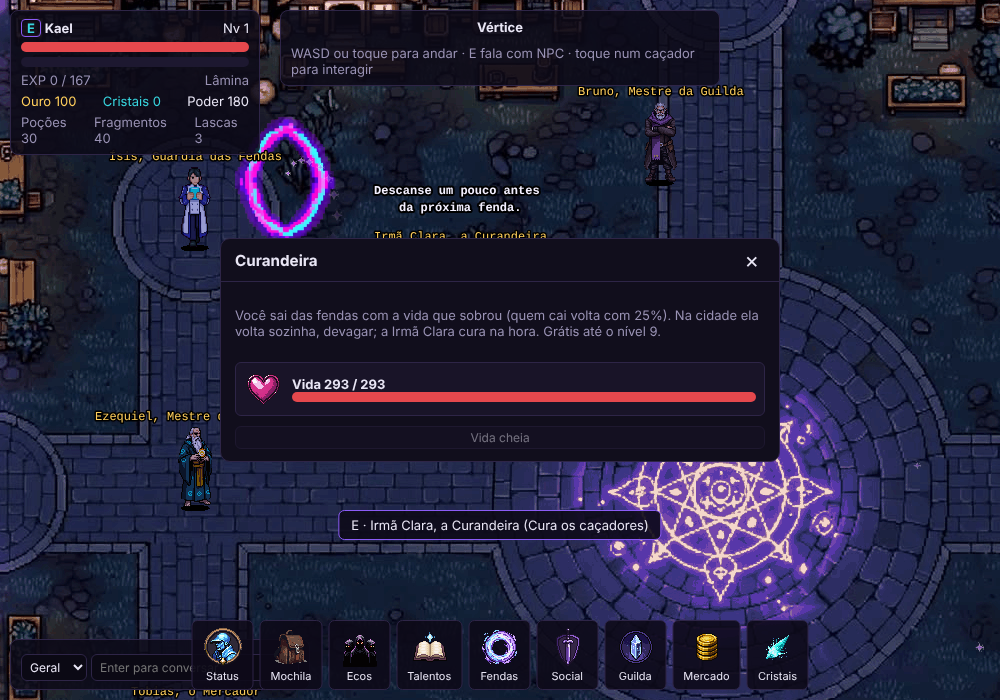
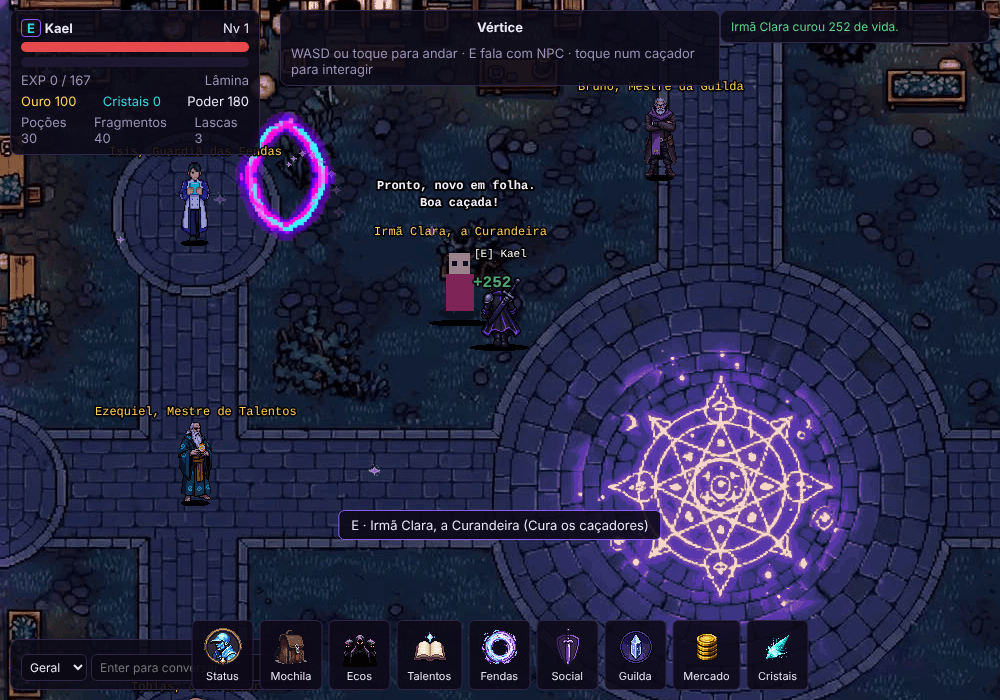
NPCs práticos: falar já faz o serviço
- Curandeira cura na hora ao falar, de graça (sem painel); avisa no balão se a vida já está cheia
- Tocar num NPC leva o caçador até ele e já fala (abre a loja, os portais, os talentos...)

Claude-Session: https://claude.ai/code/session_01R9bEA8madkQfyix1h3Gv4o

diff --git a/client/src/ui.ts b/client/src/ui.ts
@@ -3,7 +3,7 @@ import {
   ARENA, ATTRS, ATTR_HELP, ATTR_NAMES, AUTO_EXTRACT_LEVEL, BAG_EXPANSIONS, CLASSES, CLASS_IDS, CRYSTAL_PACKS, ECHO_FUSE_COUNT, ECHO_LIMIT, ECHO_TIERS,
   ENCHANT_CHANCE, GUILD, MARKET, MAX_ENCHANT, MAX_LEVEL, MONSTERS, PARTY_MAX, PREMIUM, PROMOTIONS, RARITY_INFO, RIFTS, SHOP, SKILLS, SLOTS,
   SLOT_NAMES, TALENTS, TALENT_MAX, TALENT_PATHS, TALENT_TIER_POINTS, bagSize, echoFuseCost, echoStats, enchantCost, expToNext, itemName,
-  itemStat, pathPoints, rankOf, sellPrice, talentPoints, talentResetCost, type ClassId, type Item, type PremiumId, type ShopId, type Slot, type TalentPath, HEAL, healCost } from '../../shared/content.ts'
+  itemStat, pathPoints, rankOf, sellPrice, talentPoints, talentResetCost, type ClassId, type Item, type PremiumId, type ShopId, type Slot, type TalentPath } from '../../shared/content.ts'
 import type { ChatChannel, InviteKind, ServerMsg } from '../../shared/protocol.ts'
 import { icon } from './assets.ts'
 import { send, state } from './net.ts'
@@ -28,7 +28,6 @@ const inCity = () => state.room?.kind === 'city'
 
 const PANELS: Record<string, { title: string; key?: string; icon: string; render: () => Node[] }> = {
   status: { title: 'Status', key: 'c', icon: 'icones/menu/status', render: renderStatus },
-  cura: { title: 'Curandeira', icon: 'icones/atributos/vit', render: renderHeal },
   mochila: { title: 'Mochila', key: 'i', icon: 'icones/menu/mochila', render: renderBag },
   ecos: { title: 'Ecos', key: 'h', icon: 'icones/menu/ecos', render: renderEchoes },
   talentos: { title: 'Talentos e habilidades', key: 'k', icon: 'icones/atributos/int', render: renderTalents },
@@ -296,18 +295,6 @@ function renderForge(): Node[] {
   }
   return out
 }
-function renderHeal(): Node[] {
-  const c = state.char!, d = state.derived!
-  const hp = c.hp ?? d.maxHp, missing = d.maxHp - hp, cost = healCost(c.level, missing)
-  const out: Node[] = [
-    h('p', { class: 'muted' }, `Você sai das fendas com a vida que sobrou (quem cai volta com ${Math.round(HEAL.afterFallPct * 100)}%). Na cidade ela volta sozinha, devagar; a Irmã Clara cura na hora.${c.level < HEAL.freeBelowLevel ? ` Grátis até o nível ${HEAL.freeBelowLevel - 1}.` : ''}`),
-    h('div', { class: 'line' }, icon('icones/atributos/vit', 'Vida'),
-      h('div', { class: 'grow' }, h('b', {}, `Vida ${fmt(hp)} / ${fmt(d.maxHp)}`), h('div', { class: 'bar hp', title: 'Vida' }, h('i', { style: `width:${Math.round((hp / d.maxHp) * 100)}%` })))),
-  ]
-  if (!inCity()) out.push(h('p', { class: 'bad' }, 'A curandeira só atende na cidade.'))
-  out.push(btn(missing <= 0 ? 'Vida cheia' : cost ? `Curar · ${fmt(cost)} ouro` : 'Curar · grátis', () => send({ t: 'heal' }), { disabled: !inCity() || missing <= 0 || c.gold < cost }))
-  return out
-}
 function renderShop(): Node[] {
   const c = state.char!
   const out: Node[] = inCity() ? [] : [h('p', { class: 'bad' }, 'A loja só atende na cidade.')]
@@ -505,7 +492,6 @@ export function handleUi(m: ServerMsg) {
     case 'trade': if (m.trade) { if (open !== 'troca') openPanel('troca'); else renderPanel() } else if (open === 'troca') { open = null; $('panel').classList.add('hidden') } break
     case 'guild': if (open === 'guilda') renderPanel(); break
     case 'market': if (open === 'mercado') renderPanel(); break
-    case 'healed': toast(m.cost ? `Curado (+${fmt(m.amount)} de vida) por ${fmt(m.cost)} de ouro.` : `Curado (+${fmt(m.amount)} de vida).`); break
     case 'order': if (m.status === 'pending') modal('Pedido criado', m.text); break
   }
 }

diff --git a/client/src/scene.ts b/client/src/scene.ts
@@ -70,6 +70,8 @@ export class GameScene extends Phaser.Scene {
   private lastSkill = new Map<number, { name: string; at: number }>()
   onNearNpc: (npc: (typeof NPCS)[number] | null) => void = () => {}
   private nearNpc: (typeof NPCS)[number] | null = null
+  /** NPC que o jogador tocou: ao chegar perto, fala com ele sozinho. */
+  private talkTo: (typeof NPCS)[number] | null = null
   /** NPCs da cidade na tela: para virar para o jogador, falar e mostrar emotes. */
   private npcViews: { def: (typeof NPCS)[number]; img: Phaser.GameObjects.Sprite; top: number; nextEmote: number; bubble?: Phaser.GameObjects.GameObject[] }[] = []
 
@@ -109,12 +111,19 @@ export class GameScene extends Phaser.Scene {
         if (v.ent.k === 'p' && !v.ent.me && v.ent.n && Math.hypot(v.box.x - w.x, v.box.y - 40 - w.y) < 44) { this.game.events.emit('player', v.ent.n); return }
       }
       const npc = NPCS.find((n) => Math.hypot(n.x - w.x, n.y - 48 - w.y) < 56)
+      // Tocar num NPC: o caçador vai até ele e já fala (abre a loja, cura, abre os portais...).
       this.dest = npc ? { x: npc.x, y: npc.y + 46 } : { x: w.x, y: w.y }
+      this.talkTo = npc ?? null
     })
     onMessage((m) => {
       if (m.t === 'room') this.enterRoom(m.room, m.you)
       else if (m.t === 'snap') this.applySnap(m.ents, m.fx)
-      else if (m.t === 'healed') { const v = this.views.get(this.you); if (v) { this.fx.heal(v.box.x, v.box.y); this.floatText(v.box.x, v.box.y - 60, `+${m.amount}`, '#5fd38a', 16, 1200) } }
+      else if (m.t === 'healed') {
+        const healer = this.npcViews.find((o) => o.def.panel === 'cura')
+        if (healer) this.say(healer, m.amount ? 'Pronto, novo em folha. Boa caçada!' : 'Você já está bem! Volte quando precisar.')
+        const v = this.views.get(this.you)
+        if (v && m.amount) { this.fx.heal(v.box.x, v.box.y); this.floatText(v.box.x, v.box.y - 60, `+${m.amount}`, '#5fd38a', 16, 1200) }
+      }
     })
     this.game.events.emit('scene-ready')
   }
@@ -133,7 +142,9 @@ export class GameScene extends Phaser.Scene {
       if (!this.nearNpc) return
       const v = this.npcViews.find((o) => o.def === this.nearNpc)
       if (v) this.hop(v.img)
-      this.game.events.emit('npc', this.nearNpc.panel)
+      // Falar já faz o serviço: a curandeira cura na hora; os outros abrem o que oferecem.
+      if (this.nearNpc.panel === 'cura') send({ t: 'heal' })
+      else this.game.events.emit('npc', this.nearNpc.panel)
     }
     else if (this.room?.kind === 'hunt') send({ t: 'extract' })
   }
@@ -469,10 +480,10 @@ export class GameScene extends Phaser.Scene {
         dx = (k.D.isDown || k.RIGHT.isDown ? 1 : 0) - (k.A.isDown || k.LEFT.isDown ? 1 : 0)
         dy = (k.S.isDown || k.DOWN.isDown ? 1 : 0) - (k.W.isDown || k.UP.isDown ? 1 : 0)
       }
-      if (dx || dy) this.dest = null
+      if (dx || dy) { this.dest = null; this.talkTo = null }
       else if (this.dest && me) {
         const ddx = this.dest.x - me.tx, ddy = this.dest.y - me.ty, d = Math.hypot(ddx, ddy)
-        if (d < 10) this.dest = null; else { dx = ddx / d; dy = ddy / d }
+        if (d < 10) { this.dest = null; if (this.talkTo) { this.nearNpc = this.talkTo; this.talkTo = null; this.interact() } } else { dx = ddx / d; dy = ddy / d }
       }
       const key = `${dx.toFixed(2)},${dy.toFixed(2)}`
       if (key !== this.lastMove) { this.lastMove = key; send({ t: 'move', dx, dy }) }

diff --git a/tests/game.test.ts b/tests/game.test.ts
@@ -430,12 +430,12 @@ describe('servidor', () => {
     back.ws.close(); b.ws.close()
   }, 60000)
 
-  it('curandeira: a vida sai da caçada, volta na cidade e é curada (paga a partir do nível 10)', async () => {
+  it('curandeira: a vida sai da caçada, volta na cidade e é curada só de falar com ela', async () => {
     const p = await player('clara_t', 'Ferido')
     const max = derive(p.char).maxHp
     p.flush()
     p.send({ t: 'heal' })
-    expect((await p.waitFor('err')).text).toMatch(/cheia/)
+    expect((await p.waitFor('healed')).amount).toBe(0)
     // Caça e sai ferido: a vida com que saiu fica guardada e é a de entrada na próxima caçada
     p.send({ t: 'enterHunt', rift: 'minas-ocas', band: 0 })
     await p.waitFor('room', (m) => m.room.kind === 'hunt')
@@ -446,15 +446,15 @@ describe('servidor', () => {
     // Na cidade volta sozinha
     srv.world.second()
     expect(p.char.hp).toBeGreaterThan(7)
-    // Iniciante: grátis
+    // Falar com a curandeira: cura na hora, de graça
     p.flush(); p.send({ t: 'heal' })
     const h1 = await p.waitFor('healed')
     expect(h1.cost).toBe(0); expect(p.char.hp).toBeUndefined()
-    // Nível 20: cobra ouro proporcional à vida que falta
+    // Também no nível alto, sem cobrar
     p.char.level = 20; const max20 = derive(p.char).maxHp; p.char.hp = max20 - 100; const gold = p.char.gold
     p.flush(); p.send({ t: 'heal' })
     const h2 = await p.waitFor('healed')
-    expect(h2.cost).toBe(10); expect(p.char.gold).toBe(gold - 10); expect(p.char.hp).toBeUndefined()
+    expect(h2.cost).toBe(0); expect(p.char.gold).toBe(gold); expect(p.char.hp).toBeUndefined()
     expect(max).toBeGreaterThan(0)
     p.ws.close()
   })

diff --git a/shared/content.ts b/shared/content.ts
@@ -411,10 +411,10 @@ export const SKILLS: Record<ClassId, SkillDef[]> = {
 
 // ---------- Grupo, arena, guilda, mercado ----------
 // ---------- Curandeira ----------
-/** Na cidade a vida volta sozinha (0,5% por segundo: cheia em ~3 min). A curandeira enche na hora. */
-export const HEAL = { cityRegenPerSec: 0.005, freeBelowLevel: 10, goldPerHp: 0.1, afterFallPct: 0.25 }
-/** Preço da cura: grátis para iniciantes; depois, 1 ouro a cada 10 de vida que falta. */
-export const healCost = (level: number, missing: number) => level < HEAL.freeBelowLevel ? 0 : Math.ceil(missing * HEAL.goldPerHp)
+/** Na cidade a vida volta sozinha (0,5% por segundo: cheia em ~3 min). A curandeira enche na hora, só falando com ela. */
+export const HEAL = { cityRegenPerSec: 0.005, goldPerHp: 0, afterFallPct: 0.25 }
+/** Preço da cura: hoje grátis (goldPerHp = 0). Para cobrar, suba goldPerHp (ex.: 0.1 = 1 ouro a cada 10 de vida). */
+export const healCost = (_level: number, missing: number) => Math.ceil(missing * HEAL.goldPerHp)
 
 export const PARTY_MAX = 4
 export const PARTY_SHARE = 0.75 // parte da EXP e do ouro que cada membro recebe em grupo

diff --git a/server/src/world.ts b/server/src/world.ts
@@ -426,12 +426,12 @@ export class World {
     const c = s.char!
     if (s.hunt) return this.err(s, 'A curandeira só atende na cidade.')
     const max = derive(c).maxHp, missing = c.hp === undefined ? 0 : max - c.hp
-    if (missing <= 0) return this.err(s, 'Sua vida já está cheia.')
+    if (missing <= 0) return s.send({ t: 'healed', amount: 0, cost: 0 })
     const cost = healCost(c.level, missing)
     if (c.gold < cost) return this.err(s, `A cura custa ${cost} de ouro.`)
     c.gold -= cost; delete c.hp
     this.sendChar(s); s.send({ t: 'healed', amount: missing, cost })
-    this.log(s, cost ? `Irmã Clara curou ${missing} de vida por ${cost} de ouro.` : `Irmã Clara curou ${missing} de vida.`, 'good')
+    this.log(s, `Irmã Clara curou ${missing} de vida.`, 'good')
   }
 
   private async finishHunt(h: Hunt) {
